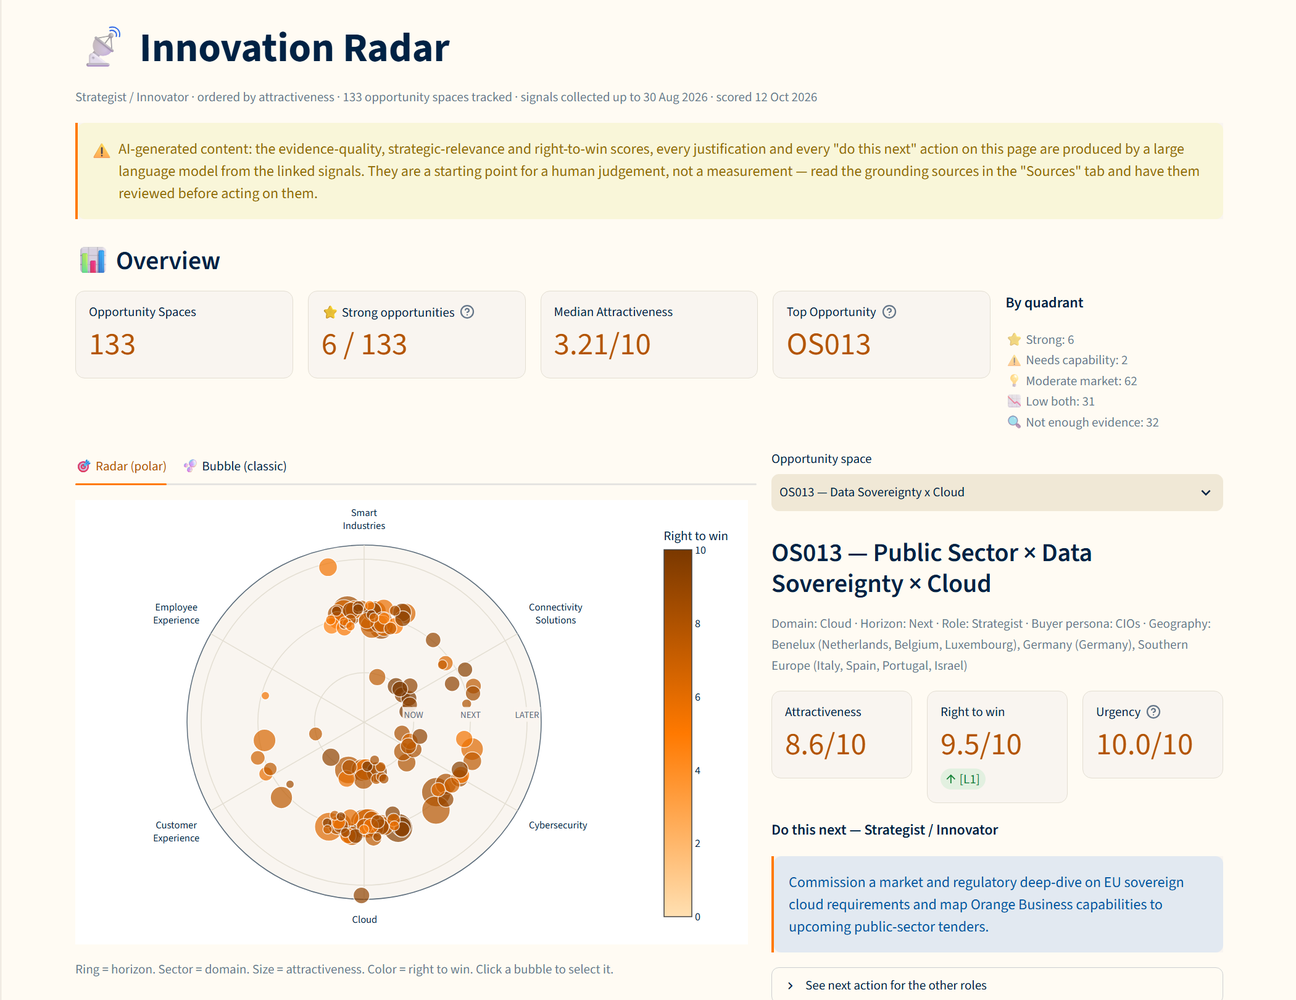
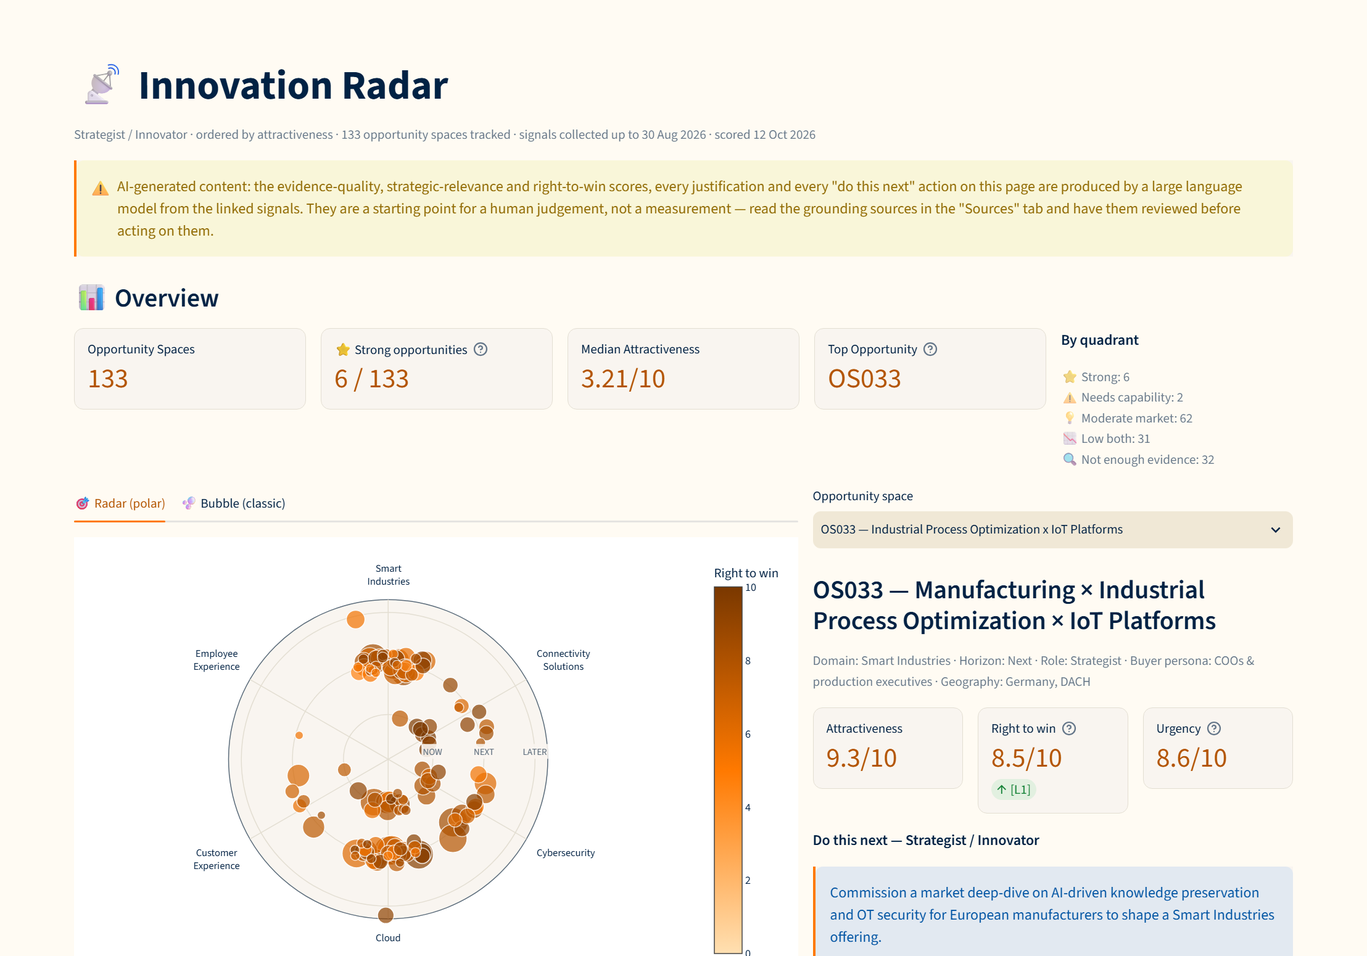
feat: rank top opportunity on attractiveness, add opportunity-type filter
The client asked for attractiveness to weigh more at this stage, and
right-to-win is only scored against the public catalogue until internal
data is available. "Top Opportunity" and the opening view therefore rank
on attractiveness alone (OS033 instead of OS013); right-to-win stays as
the second axis, labelled provisional.

New sidebar filter on portfolio distance: quick wins (L0-L1, 84 spaces),
partner-dependent (L2, 1), bigger bets (L3-L4, 48), as the client wants
both kept but categorised apart. 3 dashboard tests added (215 -> 218).

diff --git a/app/streamlit_app.py b/app/streamlit_app.py
@@ -65,6 +65,15 @@ DB_MISSING_HINT = (
 )
 st.markdown(DARK_CSS, unsafe_allow_html=True)
 HORIZON_RADIUS = {"Now": 0.28, "Next": 0.6, "Later": 0.92}
+# The client wants quick wins and bigger bets kept apart, both being worth
+# pursuing. Both are read off the right-to-win portfolio distance, so "All"
+# also keeps the spaces with no right-to-win score yet.
+OPPORTUNITY_TYPES = {
+    "All": None,
+    "Quick wins (L0–L1)": ("L0", "L1"),
+    "Partner-dependent (L2)": ("L2",),
+    "Bigger bets (L3–L4)": ("L3", "L4"),
+}
 DOMAIN_NAMES = [d["name"] for d in DOMAINS_TAXONOMY]
 DOMAIN_ANGLE_WIDTH = 360 / max(1, len(DOMAIN_NAMES))
 
@@ -153,6 +162,18 @@ def top_opportunity_label(frame, score_column="total_score", label_column="label
     if frame.empty or frame[score_column].isna().all():
         return None
     return frame.loc[frame[score_column].idxmax(), label_column]
+
+
+def filter_by_opportunity_type(frame, opportunity_type):
+    """Rows whose portfolio distance belongs to the chosen opportunity type.
+
+    "All" returns the frame untouched, so a space without a right-to-win
+    score is only hidden once the reader asks for a specific type.
+    """
+    levels = OPPORTUNITY_TYPES[opportunity_type]
+    if levels is None:
+        return frame
+    return frame[frame["portfolio_distance"].isin(levels)]
 
 
 def domain_angle(domain, seed):
@@ -266,6 +287,12 @@ def _matches_any_geo(cell, picked):
 
 
 st.sidebar.markdown("### Filters")
+opportunity_type = st.sidebar.radio(
+    "Opportunity type",
+    list(OPPORTUNITY_TYPES),
+    index=0,
+    help="Read off the right-to-win portfolio distance: L0-L1 Orange Business can sell with existing offers, L2 needs a partner, L3-L4 needs new capabilities.",
+)
 picked_verticals = st.sidebar.multiselect("Vertical", verticals, default=verticals)
 picked_domains = st.sidebar.multiselect("Domain", domains, default=domains)
 picked_horizons = st.sidebar.multiselect("Horizon", HORIZONS, default=HORIZONS)
@@ -291,6 +318,7 @@ sort_col = {
     "Right to win": "right_to_win_score",
     "Urgency": "urgency_score",
 }.get(sort_by)
+df_role = filter_by_opportunity_type(df_role, opportunity_type)
 filtered = df_role[
     df_role["vertical"].isin(picked_verticals)
     & df_role["domain"].isin(picked_domains)
@@ -327,7 +355,9 @@ freshness = " · ".join(
     if d
 )
 st.caption(
-    f"{role} · ordered by {sort_by.lower()} · {total_os_count} opportunity spaces tracked"
+    f"{role}"
+    + ("" if opportunity_type == "All" else f" · {opportunity_type}")
+    + f" · ordered by {sort_by.lower()} · {total_os_count} opportunity spaces tracked"
     + (f" · {freshness}" if freshness else "")
 )
 st.warning(AI_DISCLOSURE)
@@ -359,21 +389,18 @@ with col3:
     median_attractiveness = filtered["total_score"].median()
     st.metric("Median Attractiveness", f"{median_attractiveness:.2f}/10")
 with col4:
-    # The radar has two axes and "strong" needs both, so the top space is the
-    # best on attractiveness + right-to-win, not on attractiveness alone (that
-    # crowned OS033, 9.3 + 8.5, over OS013, 8.6 + 9.5). A space with no
-    # right-to-win score yet cannot be the top one.
-    best_opportunity = top_opportunity_label(
-        filtered.assign(overall=filtered["total_score"] + filtered["right_to_win_score"]),
-        score_column="overall",
-    )
+    # Ranked on attractiveness alone: the client asked for attractiveness to
+    # weigh more at this stage, and right-to-win is only a proxy until it is
+    # scored against Orange Business internal data, so it must not decide the
+    # top space.
+    best_opportunity = top_opportunity_label(filtered)
     st.metric(
         "Top Opportunity",
         best_opportunity or "—",
         help=(
-            "Highest attractiveness + right to win among the spaces matching these filters."
+            "Highest attractiveness among the spaces matching these filters. Right to win is not used for the ranking: it is provisional until scored against internal data."
             if best_opportunity
-            else "No space matching these filters has both an attractiveness and a right-to-win score."
+            else "No space matching these filters has an attractiveness score."
         ),
     )
 with col5:
@@ -383,7 +410,7 @@ with col5:
     )
 query_topic = st.query_params.get("topic")
 labels = sorted(filtered["label"].tolist())
-# Without a shared ?topic= link, open on the top space (attractiveness + right-to-win) under the
+# Without a shared ?topic= link, open on the most attractive space under the
 # current role and filters rather than on whichever label sorts first.
 default_label = query_topic if query_topic in labels else best_opportunity
 default_index = labels.index(default_label) if default_label in labels else 0
@@ -565,7 +592,7 @@ with col_radar:
         )
         sync_selection_from_click(bubble_event, label_display, "bubble_chart")
         st.caption(
-            "X = Attractiveness. Y = Right to win. Bubble size = market signal strength (volume proxy for market potential). Color = vertical. Click a bubble to select it in the panel on the right."
+            "X = Attractiveness. Y = Right to win (provisional, public portfolio only). Bubble size = market signal strength (volume proxy for market potential). Color = vertical. Click a bubble to select it in the panel on the right."
         )
 with col_detail:
     if not labels:
@@ -594,6 +621,7 @@ with col_detail:
             else "Not scored yet"
         ),
         f"[{row.portfolio_distance}]",
+        help="Provisional: an LLM classification (portfolio distance L0-L4) against the public Orange Business catalogue. It becomes a measured score once fed with internal data (offers, sales, customer references).",
     )
     m3.metric(
         "Urgency",

diff --git a/tests/test_dashboard.py b/tests/test_dashboard.py
@@ -97,16 +97,45 @@ class TestTopOpportunityLabel:
         )
         assert dashboard.top_opportunity_label(frame) is None
 
-    def test_space_without_right_to_win_cannot_be_the_top(self, dashboard):
+    def test_right_to_win_does_not_decide_the_top(self, dashboard):
         frame = pd.DataFrame(
-            {"label": ["OS001", "OS002"], "total_score": [9.9, 6.0], "right_to_win_score": [None, 7.0]}
+            {"label": ["OS001", "OS002"], "total_score": [9.3, 8.6], "right_to_win_score": [None, 9.5]}
         )
-        ranked = frame.assign(overall=frame["total_score"] + frame["right_to_win_score"])
-        assert dashboard.top_opportunity_label(ranked, score_column="overall") == "OS002"
+        assert dashboard.top_opportunity_label(frame) == "OS001"
 
     def test_empty_selection_returns_none(self, dashboard):
         frame = pd.DataFrame({"label": [], "total_score": []})
         assert dashboard.top_opportunity_label(frame) is None
+
+
+class TestOpportunityTypeFilter:
+    """Quick wins and bigger bets are read off the portfolio distance."""
+
+    FRAME = pd.DataFrame(
+        {"label": ["OS001", "OS002", "OS003", "OS004"], "portfolio_distance": ["L0", "L2", "L4", None]}
+    )
+
+    def test_all_keeps_spaces_without_right_to_win(self, dashboard):
+        kept = dashboard.filter_by_opportunity_type(self.FRAME, "All")
+        assert kept["label"].tolist() == ["OS001", "OS002", "OS003", "OS004"]
+
+    def test_each_type_keeps_only_its_levels(self, dashboard):
+        pick = lambda t: dashboard.filter_by_opportunity_type(self.FRAME, t)["label"].tolist()
+        assert pick("Quick wins (L0–L1)") == ["OS001"]
+        assert pick("Partner-dependent (L2)") == ["OS002"]
+        assert pick("Bigger bets (L3–L4)") == ["OS003"]
+
+    def test_bigger_bets_opens_on_the_most_attractive_bet(self, dashboard):
+        app = AppTest.from_file(_APP_PATH, default_timeout=120)
+        app.run()
+        app.sidebar.radio[1].set_value("Bigger bets (L3–L4)").run()
+        assert not app.exception, f"dashboard raised: {app.exception}"
+        frame, _, _ = dashboard.load_scores()
+        bets = frame[frame["portfolio_distance"].isin(["L3", "L4"])]
+        best = bets.loc[bets["total_score"].idxmax(), "label"]
+        top_metric = next(m for m in app.metric if m.label == "Top Opportunity")
+        assert top_metric.value == best
+        assert app.metric[0].value == str(len(bets))
 
 
 class TestAiActDisclosure:
@@ -214,12 +243,12 @@ class TestChartClickSync:
 class TestPageOpening:
     """What a first-time visitor (no ?topic= link) sees before any click."""
 
-    def test_opens_on_the_best_space_on_both_axes(self, ran_app, dashboard):
+    def test_opens_on_the_most_attractive_space(self, ran_app, dashboard):
         frame, _, _ = dashboard.load_scores()
+        best = frame.loc[frame["total_score"].idxmax(), "label"]
         overall = frame["total_score"] + frame["right_to_win_score"]
-        best = frame.loc[overall.idxmax(), "label"]
         # Only meaningful while the two rankings disagree on radar.db.
-        assert best != frame.loc[frame["total_score"].idxmax(), "label"]
+        assert best != frame.loc[overall.idxmax(), "label"]
         assert ran_app.selectbox(key="os_selectbox").value.startswith(f"{best} —")
         top_metric = next(m for m in ran_app.metric if m.label == "Top Opportunity")
         assert top_metric.value == best

diff --git a/README.md b/README.md
@@ -4,7 +4,7 @@ A signal-driven opportunity discovery tool built for an Orange Business use case
 
 **Live demo:** https://orangebusinessusecase.streamlit.app/
 
-![Innovation Radar dashboard: overview, radar and the top opportunity space OS013](screenshots/homepage_top_OS.png)
+![Innovation Radar dashboard: overview, radar and the top opportunity space OS033](screenshots/homepage_top_OS.png)
 
 ## Origin and credits
 
@@ -14,7 +14,7 @@ What changed compared with the team's final version (`main`, 11 September 2026),
 
 | | Team version | This repository |
 |---|---|---|
-| Automated tests | 60 tests in 2 files | 215 tests (196 test functions) in 13 files, run with the network blocked |
+| Automated tests | 60 tests in 2 files | 218 tests (199 test functions) in 13 files, run with the network blocked |
 | CI / deployment | none (dev container only) | GitHub Actions (tests + Docker build on every push), Dependabot, Docker, Render, live Streamlit app |
 | Attractiveness weights | hand-set 30/25/20/15/10 | derived with AHP from a pairwise-comparison sheet (consistency ratio 0.021); the hand-set weights remain an option |
 | Signal-to-space linking | 2,899 links, every space linked, no relevance check | 469 links, each sharing at least 2 keywords with the space; 32 spaces without real evidence are flagged "insufficient evidence" instead of being scored on unrelated signals |
@@ -33,7 +33,7 @@ I built a pipeline that turns scattered external signals into scored, ranked opp
 - **Link**: attaches signals to the opportunity space they actually support (a title must share at least 2 distinct keywords with the space's use case and technology, `radar_cli.py::MIN_KEYWORD_OVERLAP`), before any scoring happens.
 - **Score**: two independent axes — Attractiveness (market signal strength 39.7%, evidence quality 27.8%, source diversity 14.1%, strategic relevance 13.0%, novelty/momentum 5.5% — the AHP priority vector of `pipeline/ahp_weights.xlsx`, consistency ratio 0.021; the hand-set 30/25/20/15/10 remains as `--weights=manual`) and Right-to-Win (portfolio distance L0–L4) — plus a separate Urgency score, combining LLM judgment (Groq, falling back to SambaNova, then a local Ollama model) and deterministic formulas. The dashboard calls an opportunity "strong" when both axes are >= 7 (`pipeline/config.py::STRONG_THRESHOLD`); a space with no linked signal is classed "insufficient evidence" instead, whatever its scores.
 - **Promote**: recurring themes are promoted into new tracked Opportunity Spaces; a separate taxonomy-extension loop (watchlist → proposal → accepted/rejected) lets the underlying vocabulary grow over time.
-- **Visualize**: a Streamlit dashboard (radar + bubble view, where a click on either opens that opportunity space in the detail panel; role-based next actions; the dates of the last signal collection and scoring run under the title; a pipeline-growth section showing proposals and themes waiting to become new spaces) and a Power BI export for reporting. The page opens on the top space for the current role and filters: the best on attractiveness + right-to-win, the two axes a strong opportunity needs.
+- **Visualize**: a Streamlit dashboard (radar + bubble view, where a click on either opens that opportunity space in the detail panel; role-based next actions; the dates of the last signal collection and scoring run under the title; a pipeline-growth section showing proposals and themes waiting to become new spaces) and a Power BI export for reporting. The page opens on the top space for the current role and filters: the most attractive one, as the client asked for this stage. Right-to-win stays on the page as the second axis, labelled provisional until it can be scored against internal data, and an "Opportunity type" filter uses its portfolio distance to separate quick wins (L0–L1, 84 spaces) from partner-dependent ones (L2, 1) and bigger bets (L3–L4, 48).
 
 ## Repository structure
 
@@ -73,7 +73,7 @@ I built a pipeline that turns scattered external signals into scored, ranked opp
 │   ├── test_scoring_and_db.py    # scoring formulas, DB queries, dashboard quadrants
 │   ├── test_score_history.py     # every score write kept in the history tables, current reads unchanged
 │   ├── test_taxonomy_threshold.py # one taxonomy proposal threshold for every entry point
-│   ├── test_dashboard.py         # Streamlit dashboard: missing DB, AI disclosure, tabs, links, chart clicks, opening view
+│   ├── test_dashboard.py         # Streamlit dashboard: missing DB, AI disclosure, tabs, links, chart clicks, opening view, opportunity-type filter
 │   ├── test_foreign_keys.py      # foreign keys enforced, child tables repaired onto the live parent
 │   ├── test_network_guard.py     # the socket guard in conftest.py
 │   ├── test_link_keywords.py     # link needs 2 shared keywords, weak links pruned
@@ -127,7 +127,7 @@ python -m pipeline.scoring --rescue-fallback   # re-score the spaces still sitti
 python radar_cli.py summary        # write opportunity_spaces_summary.md
 python radar_cli.py summary --top 15 --output opportunity_spaces_summary_top_15.md
 python radar_cli.py review         # approve/reject taxonomy proposals
-python -m pytest                   # run the 215 tests (sockets are blocked by conftest.py, so no network is possible)
+python -m pytest                   # run the 218 tests (sockets are blocked by conftest.py, so no network is possible)
 ```
 
 Power BI dashboard (Power BI has no SQLite connector, so it reads a CSV export):
@@ -174,7 +174,7 @@ every push.
 **Radar**: ring = horizon, sector = domain, size = attractiveness, colour = right to win. A click on a bubble opens that space on the right.
 ![Radar view](screenshots/radar.png)
 
-**Detail panel of the top space (OS013)**: attractiveness, right to win with portfolio distance, urgency, and the next action for the selected role.
+**Detail panel (OS013)**: attractiveness, right to win with portfolio distance, urgency, and the next action for the selected role.
 ![Detail panel, OS013](screenshots/top_OS.png)
 
 **Bubble view**: attractiveness against right to win, coloured by vertical, with OS037 open in the panel.
@@ -194,7 +194,6 @@ What a reader should know before trusting a number on the dashboard. The full li
 - **LLM-generated judgements**: evidence quality, strategic relevance, right-to-win and next actions come from a language model at temperature 0. Two runs on the same signals moved 38 of 133 spaces to another right-to-win level, so they are a starting point for a human, not a measurement.
 - **Keyword links**: a signal attaches to a space when its title shares 2 keywords with it. That removes most off-topic links but leaves 32 spaces with no evidence, shown as such.
 - **Weights and thresholds are opinions made consistent, not fitted**: the AHP weights reflect one team's judgements, and the taxonomy thresholds were never calibrated, because there are no won/lost outcomes to fit them to.
-- **Two rankings coexist**: the dashboard ranks the top space on attractiveness + right-to-win, while the Power BI report and `opportunity_spaces_summary_top_15.md` still rank on attractiveness alone.
 
 ## Next steps
 

diff --git a/docs/technical_deep_dive.md b/docs/technical_deep_dive.md
@@ -228,7 +228,7 @@ same rule (`Insufficient Evidence`) from the `linked_signals` column of
 | `pipeline/db.py` | 757 | Schema, all queries, duplicate-triple cleanup + `UNIQUE` index, latest-score queries with an `id DESC` tiebreaker, foreign-key repair, append-only score history. |
 | `llm/llm_client.py` | 234 | Provider chain, Groq key rotation, JSON extraction. |
 | `radar_cli.py` | 667 | `create`, `promote`, `link`, `summary [--top N] [--output PATH]`, `review`, `watchlist`, `themes`, `calibrate`, `dedupe`, `delete`, `scores`, `all`. |
-| `app/streamlit_app.py` | 850 | Radar (drawn on cartesian axes so clicks register) and bubble views, opening on the top space (attractiveness + right-to-win), data dates under the title, a pipeline-growth section, sidebar filters (vertical, domain, horizon, owning team, buyer persona, geography), per-OS breakdown and next actions per role. |
+| `app/streamlit_app.py` | 878 | Radar (drawn on cartesian axes so clicks register) and bubble views, opening on the most attractive space (right-to-win shown as provisional), data dates under the title, a pipeline-growth section, sidebar filters (vertical, domain, horizon, owning team, buyer persona, geography), per-OS breakdown and next actions per role. |
 | `radar_cli_top_15.py`, `pipeline/signals_discovery.py` | 518, 58 | Older CLI and its copy of `theme_promotion`, kept on purpose (see `decisions.md`). |
 | `scripts/` | | One-off healthcare analysis, run from the repo root. |
 | `scripts/derive_caps.py` | 110 | Re-derives `MARKET_SIGNAL_CAP` and `SOURCE_DIVERSITY_CAP` from the link volume of both keyword rules (§2.1); read-only. |
@@ -297,7 +297,7 @@ of the LLM on purpose.
 
 ## 5. Testing
 
-215 tests, all passing on 16 October 2026, no network (`python -m pytest`, a few
+218 tests, all passing on 16 October 2026, no network (`python -m pytest`, a few
 seconds). "No network" is now enforced rather than reviewed: an autouse fixture in
 `conftest.py` makes `socket.connect` / `create_connection` raise, so a test that
 forgets to mock its feed or LLM call fails with an explicit message instead of
@@ -308,7 +308,7 @@ reaching the internet.
 | `tests/test_LLM.py` | 58 | Malformed LLM output across `analyze`, `scoring`, `extend_taxonomy`; generic-term filter; key rotation; non-numeric scores ("high") coerced to a marked neutral instead of raising; `nan`/`inf` sent to the fallback and out-of-range scores clamped to 0–10; signal titles fenced and unable to close the fence; `portfolio_distance` validated against L0–L4; the network block itself. |
 | `tests/test_export_powerbi.py` | 19 | Power BI export: date formats to UTC, missing stays empty (never 0), unparseable dates reported, stable header with no rows, HTML summaries to text, `DataFolder` mismatch warning, read-only DB, the linked-signal count and the model's Insufficient Evidence quadrant. |
 | `tests/test_scoring_and_db.py` | 57 | Novelty, urgency scaling and caps, latest-score queries, deletes, deterministic refresh (LLM fields untouched, row updated in place), watchlist guard, quadrants (including insufficient evidence), summary header under `--top`, rounded sub-scores, urgency wording in the summary, one source name for TED, removal of old non-tech links, the refusal to overwrite a real score with a fallback, and the feed download timeout. |
-| `tests/test_dashboard.py` | 22 | Dashboard, through Streamlit's `AppTest`: missing `radar.db` reported as an error with the pipeline hint, the AI-generated disclosure rendered on the page, the not-enough-evidence count in the overview, each tab opened exactly once, an all-NaN top-opportunity selection, which `source_url` values become links, a chart click selecting its space without a stale pick on the other chart overriding it, the page opening on the top space on both axes, the data-freshness caption, the pipeline-growth counts (only terms still below the proposal threshold) and a space without right-to-win never being the top one. |
+| `tests/test_dashboard.py` | 25 | Dashboard, through Streamlit's `AppTest`: missing `radar.db` reported as an error with the pipeline hint, the AI-generated disclosure rendered on the page, the not-enough-evidence count in the overview, each tab opened exactly once, an all-NaN top-opportunity selection, which `source_url` values become links, a chart click selecting its space without a stale pick on the other chart overriding it, the page opening on the top space on both axes, the data-freshness caption, the pipeline-growth counts (only terms still below the proposal threshold) and a space without right-to-win never being the top one. |
 | `tests/test_score_history.py` | 8 | Score history: every accepted write appended while `scores` keeps one row, a refused fallback leaves no trace, right-to-win history, the one-time baseline, history surviving a deleted OS, `init_db()` on a new database, and latest-score reads unchanged on a copy of the committed `radar.db`. |
 | `tests/test_taxonomy_threshold.py` | 5 | One proposal threshold: both defaults read `TAXONOMY_PROPOSAL_THRESHOLD`, a call without a threshold proposes the same terms as the pipeline, an explicit threshold still wins. |
 | `tests/test_foreign_keys.py` | 4 | The replayed migration that left child tables pointing at a dropped parent, the repair, foreign keys on every connection, no violation left in a copy of `radar.db`. |
@@ -448,5 +448,4 @@ temperature 0, which makes repeated calls close, not identical.
 | `source_diversity` counts publishers | With a cap of 10, an OS linked to many small outlets scores high on diversity. 8 of the 133 OS are at or above the cap; the widest has 28 distinct publishers, the median 1. |
 | Power BI refresh path | Power Query has no relative file paths, so the `DataFolder` parameter is an absolute path to one machine; `export_powerbi.py` now warns and prints the right value when it does not match. The CSV export must be re-run by hand after each pipeline run. The quadrant threshold 7 is restated in the model instead of read from `STRONG_THRESHOLD`. |
 | Right-to-win is not stable across runs | Two scoring runs on the same linked signals (29/09 and 30/09) moved 38 of 133 OS to another level, 30 of them between L1 and L3. The top 15 by attractiveness kept the same members, in a different order. Re-measured from `right_to_win_history` on 12/10: right-to-win reads neither the links nor the weights and its prompt did not change, yet against the 30/09 baseline 29 of 133 OS changed level, 23 of them between L1 and L3. Same order of magnitude. |
-| Two rankings of the top space | Since 16/10 the dashboard ranks on attractiveness + right-to-win (OS013 first), while the Power BI report (`RANKX` on attractiveness) and `opportunity_spaces_summary_top_15.md` still rank on attractiveness alone (OS033 first). Aligning them needs a change to `radar_cli.py summary` and to the Power BI model. |
 | Dependencies pinned, except Streamlit | `requirements.txt` pins exact versions for the other eight packages; `streamlit>=1.65.0` is a floor because Streamlit Cloud upgrades its own runtime. A pin is the version the project was tested against, not a version anyone validated as the best. |

diff --git a/docs/decisions.md b/docs/decisions.md
@@ -447,3 +447,27 @@ produced by the previous prompt until the next `radar_cli.py` scoring run.
 - **Revisit if:** Streamlit adds selection events for polar traces, which
   would allow going back to `go.Scatterpolar`.
 
+## 2026-10-16 — "Top Opportunity" ranks on attractiveness alone again
+
+- **What:** the dashboard's "Top Opportunity" metric, and the space the page
+  opens on, rank on attractiveness alone (OS033, 9.31) instead of
+  attractiveness + right-to-win (OS013, 8.59 + 9.5), reversing the ranking
+  of the entry above. Right-to-win stays on the page as the second axis,
+  labelled provisional.
+- **Why:** the client's answers to the team's questions say attractiveness
+  should weigh more at this stage, and that right-to-win should include
+  Orange Business internal data, which is not available yet. Right-to-win is
+  an LLM classification against the public catalogue, so it should not
+  decide which space comes first.
+- **Also:** an "Opportunity type" sidebar filter (All / quick wins L0–L1 /
+  partner-dependent L2 / bigger bets L3–L4), because the client wants quick
+  wins and bigger bets both kept, but categorised apart. On radar.db: 84, 1
+  and 48 spaces, topped by OS033, OS031 and OS024.
+- **Code change:** `app/streamlit_app.py` (metric, help texts, bubble
+  caption, `filter_by_opportunity_type()`); 2 dashboard tests rewritten for
+  the new ranking, 3 added for the filter. The dashboard,
+  the Power BI report (`RANKX` on attractiveness) and
+  `opportunity_spaces_summary_top_15.md` now agree. No score moves.
+- **Revisit if:** right-to-win is scored against internal data; a combined
+  ranking then becomes defensible.
+
